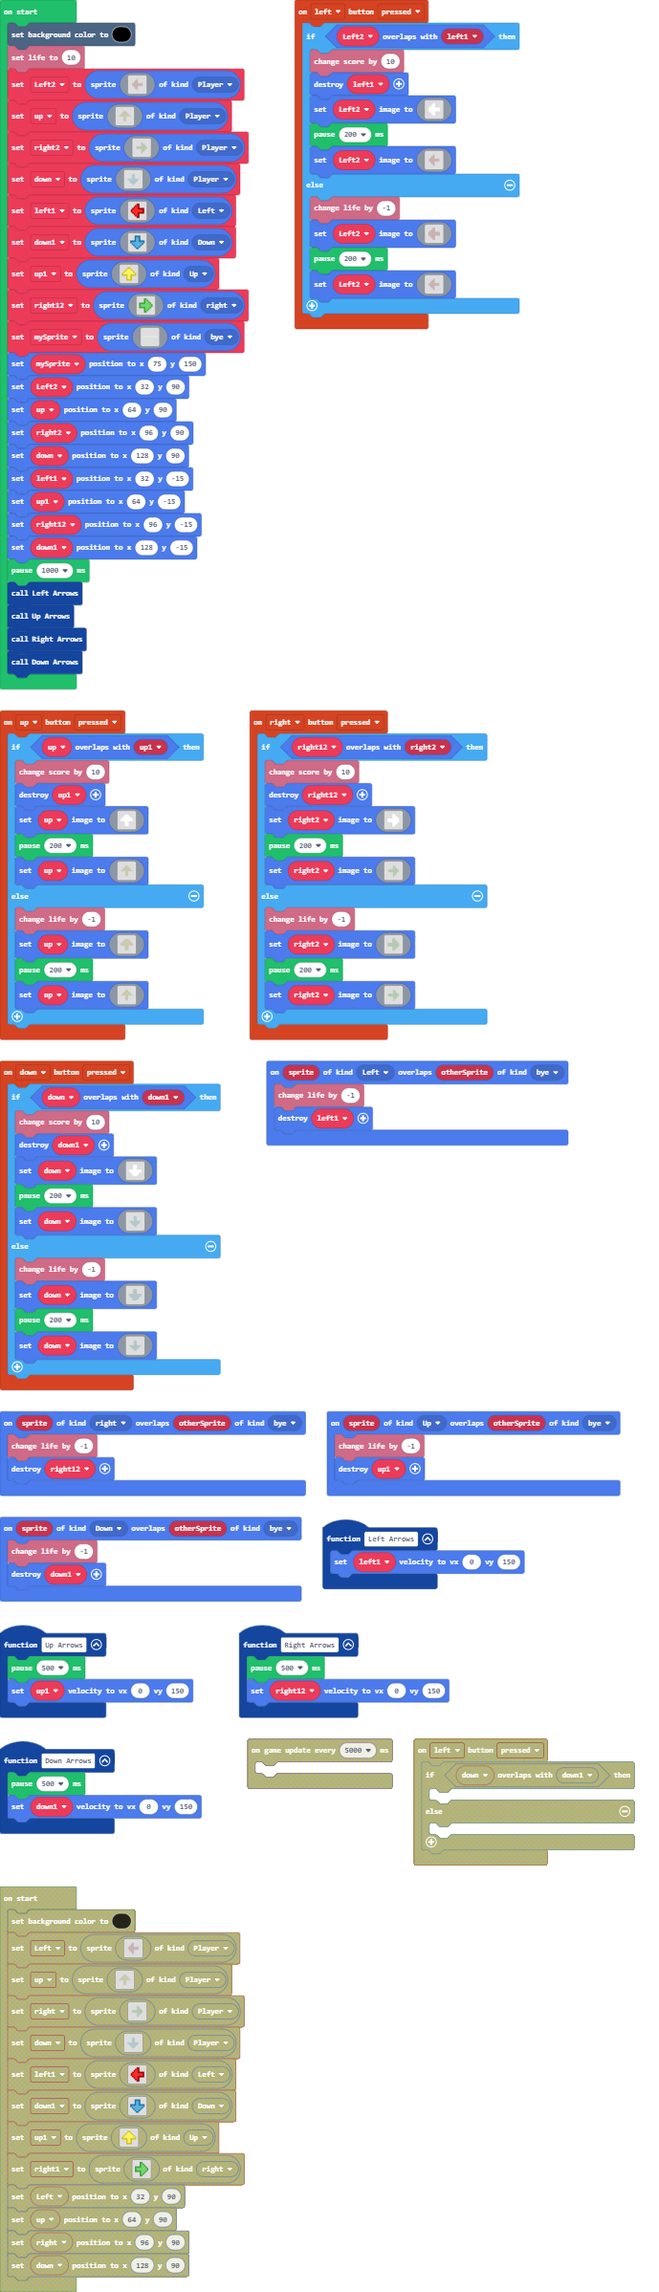
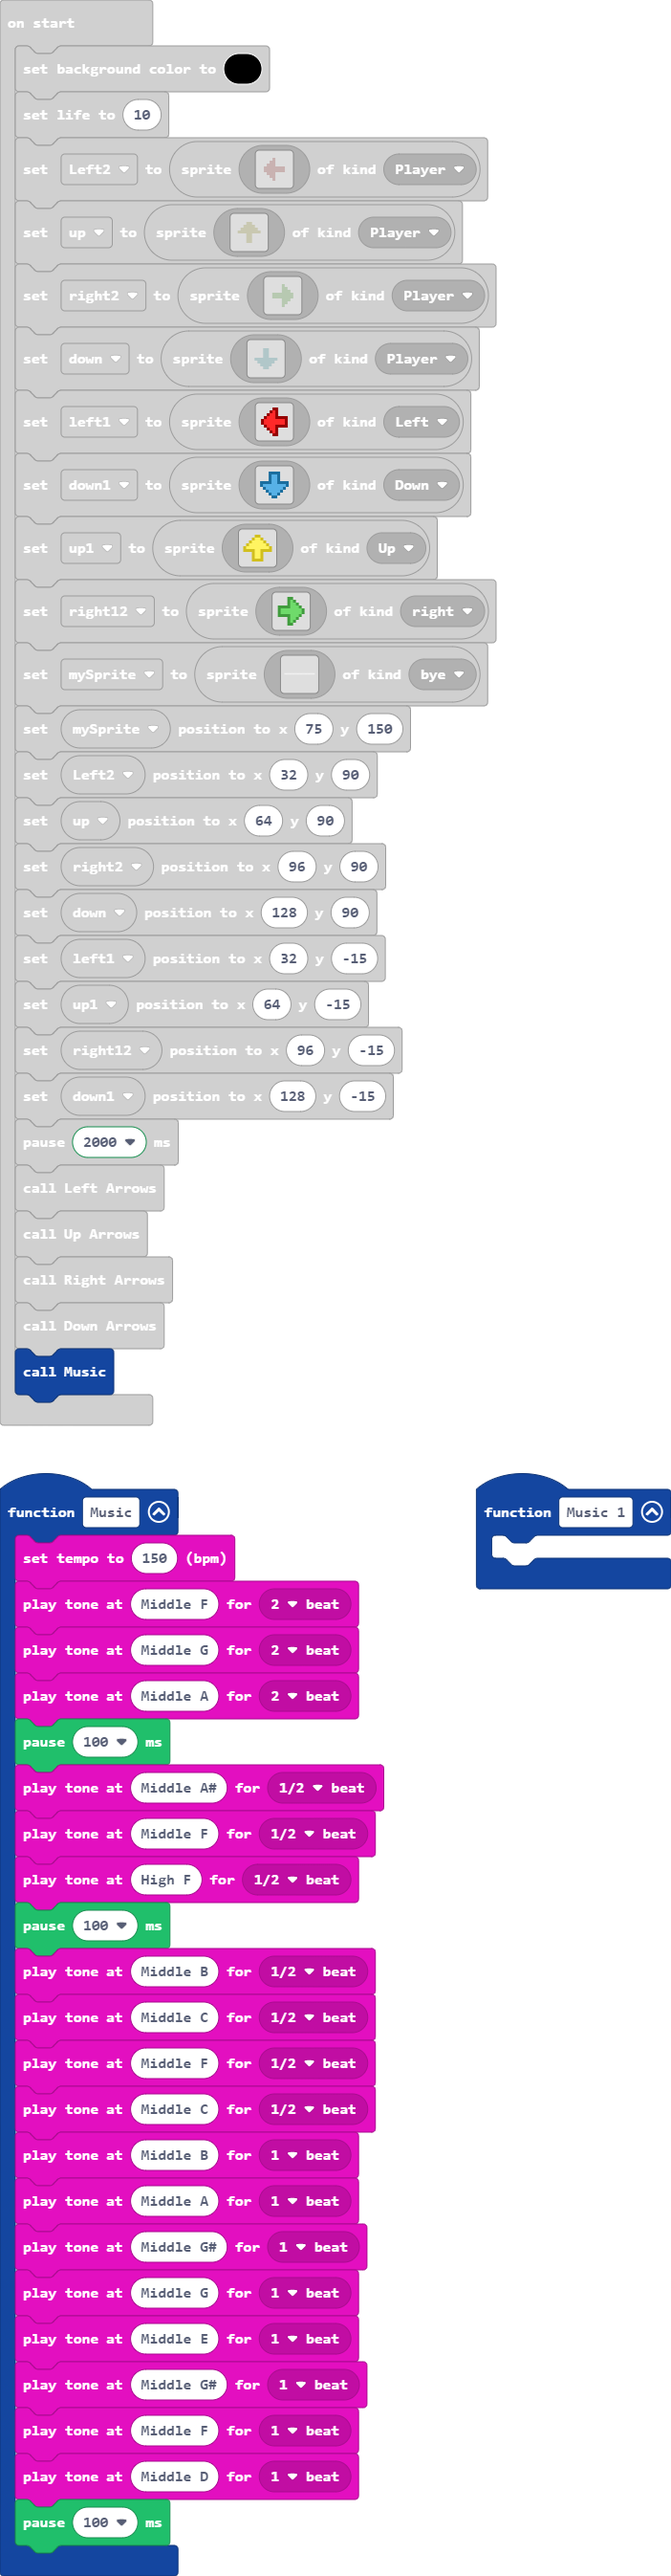
Update main.blocks, main.ts

diff --git a/main.ts b/main.ts
@@ -318,6 +318,30 @@ sprites.onOverlap(SpriteKind.right, SpriteKind.bye, function (sprite, otherSprit
     info.changeLifeBy(-1)
     right12.destroy()
 })
+function Music () {
+    music.setTempo(150)
+    music.playTone(349, music.beat(BeatFraction.Double))
+    music.playTone(392, music.beat(BeatFraction.Double))
+    music.playTone(440, music.beat(BeatFraction.Double))
+    pause(100)
+    music.playTone(466, music.beat(BeatFraction.Half))
+    music.playTone(349, music.beat(BeatFraction.Half))
+    music.playTone(698, music.beat(BeatFraction.Half))
+    pause(100)
+    music.playTone(494, music.beat(BeatFraction.Half))
+    music.playTone(262, music.beat(BeatFraction.Half))
+    music.playTone(349, music.beat(BeatFraction.Half))
+    music.playTone(262, music.beat(BeatFraction.Half))
+    music.playTone(494, music.beat(BeatFraction.Whole))
+    music.playTone(440, music.beat(BeatFraction.Whole))
+    music.playTone(415, music.beat(BeatFraction.Whole))
+    music.playTone(392, music.beat(BeatFraction.Whole))
+    music.playTone(330, music.beat(BeatFraction.Whole))
+    music.playTone(415, music.beat(BeatFraction.Whole))
+    music.playTone(349, music.beat(BeatFraction.Whole))
+    music.playTone(294, music.beat(BeatFraction.Whole))
+    pause(100)
+}
 function Right_Arrows () {
     pause(500)
     right12.setVelocity(0, 150)
@@ -616,6 +640,9 @@ controller.down.onEvent(ControllerButtonEvent.Pressed, function () {
 })
 function Left_Arrows () {
     left1.setVelocity(0, 150)
+}
+function Music_1 () {
+	
 }
 sprites.onOverlap(SpriteKind.Down, SpriteKind.bye, function (sprite, otherSprite) {
     info.changeLifeBy(-1)
@@ -919,8 +946,9 @@ left1.setPosition(32, -15)
 up1.setPosition(64, -15)
 right12.setPosition(96, -15)
 down1.setPosition(128, -15)
-pause(1000)
+pause(2000)
 Left_Arrows()
 Up_Arrows()
 Right_Arrows()
 Down_Arrows()
+Music()
